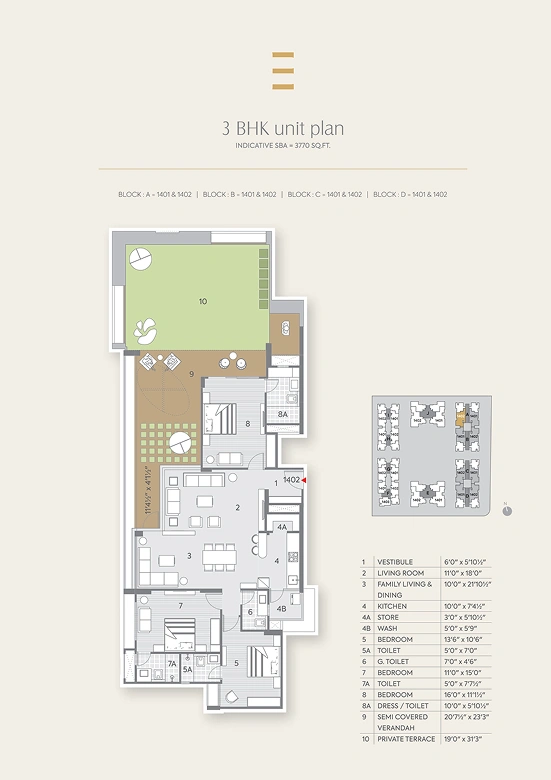
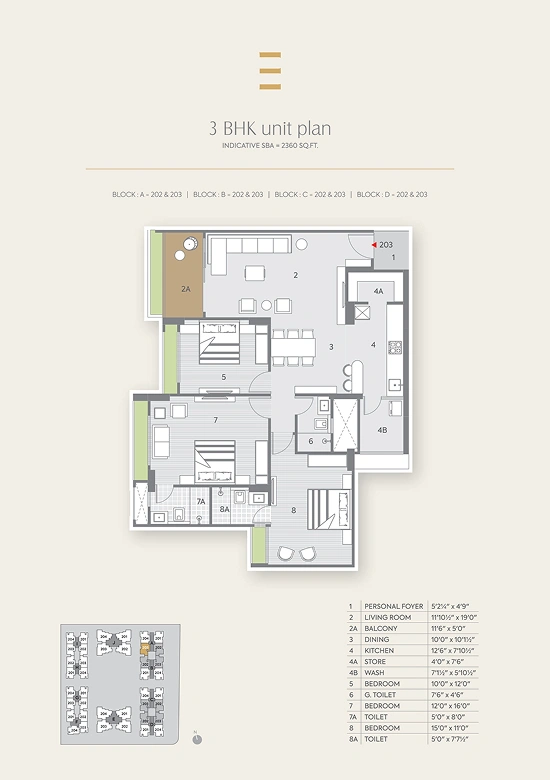
Correct floor plan to the 2nd-floor 3BHK plan (units 202/203) and redo wardrobe sizes

Changed region(s): [[0.0927, 0.2462, 0.9273, 0.9538], [0.4018, 0.1538, 0.6182, 0.2154], [0.4636, 0.0615, 0.5564, 0.1231]]

diff --git a/docs/wardrobe-buying-guide.en.md b/docs/wardrobe-buying-guide.en.md
@@ -1,48 +1,50 @@
 # Wardrobe Buying Guide — Readymade
 
 **Property:** Flat No. ____, C Block (3-Series), Shilp Residency, Gota, SG Highway, Ahmedabad
-**Plan used:** `assets/floor-plan-3bhk.webp` — Shilp's standard 3 BHK unit plan (shown as units 1401/1402, blocks A–D)
+**Plan used:** `assets/floor-plan-3bhk.webp` — Shilp 3 BHK unit plan (units 202 & 203, blocks A–D; the 3-series is 302/303, same typical plan)
 **Flat size:** 2,360 sq ft built-up · 3 BHK
 
 Wardrobes are **not** in the contractor's scope. This guide gives the sizes to buy, based on the room dimensions printed on the unit plan.
 
-> The plan is indicative and drawn for units 1401/1402. Your unit may be mirrored or slightly different. **Measure the actual wall before ordering** — see the checklist at the end.
+> The plan is indicative. **Measure the actual wall before ordering** — see the checklist at the end.
 
 ## 1. Room schedule (from the plan)
 
-| # | Room | Size (ft) |
-|---|---|---|
-| 1 | Vestibule | 6'0" × 5'10½" |
-| 2 | Living room | 11'0" × 18'0" |
-| 3 | Family living & dining | 10'0" × 21'10½" |
-| 4 | Kitchen | 10'0" × 7'4½" |
-| 4A | Store | 3'0" × 5'10½" |
-| 4B | Wash | 5'0" × 5'9" |
-| 5 | Bedroom (small) | 13'6" × 10'6" |
-| 6 | Common toilet | 7'0" × 4'6" |
-| 7 | Bedroom (medium) | 11'0" × 15'0" |
-| 8 | Bedroom (master) | 16'0" × 11'1½" |
-| 8A | Dress / toilet (master) | 10'0" × 5'10½" |
-| 9 | Semi-covered verandah | 20'7½" × 23'3" |
-| 10 | Private terrace | 19'0" × 3'7" |
+| # | Room | Size (ft) | Area (sq ft) |
+|---|---|---|---|
+| 1 | Personal foyer | 5'2¼" × 4'9" | 25 |
+| 2 | Living room | 11'10½" × 19'0" | 226 |
+| 2A | Balcony | 11'6" × 5'0" | 58 |
+| 3 | Dining | 10'0" × 10'1½" | 101 |
+| 4 | Kitchen | 12'6" × 7'10½" | 98 |
+| 4A | Store | 4'0" × 7'6" | 30 |
+| 4B | Wash | 7'11½" × 5'10½" | 47 |
+| 5 | Bedroom (small) | **10'0" × 12'0"** | 120 |
+| 6 | Common toilet | 7'6" × 4'6" | 34 |
+| 7 | **Bedroom (master)** | **12'0" × 16'0"** | 192 |
+| 7A | Toilet (master) | 5'0" × 8'0" | 40 |
+| 8 | Bedroom (large) | **15'0" × 11'0"** | 165 |
+| 8A | Toilet | 5'0" × 7'7½" | 38 |
+
+**Bedroom 7 is the master** — 12'0" × 16'0", the largest room in the flat.
 
 ## 2. What to buy
 
-Two wardrobes, as decided — master plus the medium bedroom.
+Two wardrobes, in the two largest bedrooms. Bedroom 5 stays free as a study / guest room.
 
-| Room | Clear wall available | Buy | Why |
+| Room | Wall to use | Buy | Why |
 |---|---|---|---|
-| **Bedroom 8 (master)** — 16'0" × 11'1½" | ~6 ft beside the dress/toilet door | **6 ft W × 7 ft H × 2 ft D, 3 doors** | The dress room (8A) already holds overflow; 6 ft leaves 5 ft of walkway |
-| **Bedroom 7** — 11'0" × 15'0" | ~11 ft on the long wall | **6 ft W × 7 ft H × 2 ft D, 3 doors** | Long wall opposite the bed; comfortably fits |
-| **Bedroom 5** — 13'6" × 10'6" | ~10'6" | *Optional:* 4 ft W × 6'6" H | Only if a tenant later needs a third; matched style, smaller |
+| **Bedroom 7 (master)** — 12'0" × 16'0" | 16 ft long wall | **7 ft W × 7 ft H × 2 ft D, 4-door** | Master needs the most storage; 7 ft leaves ~9 ft of clear wall. Drop to 6 ft only to save money |
+| **Bedroom 8** — 15'0" × 11'0" | 15 ft long wall | **6 ft W × 7 ft H × 2 ft D, 3-door** | Comfortably fits with ~9 ft left for the bed and walkway |
+| **Bedroom 5** — 10'0" × 12'0" | 12 ft wall | *Optional:* 4 ft W × 6'6" H | Smallest room — leave it free; add later only if a tenant needs it |
 
-**Don't buy bigger than 6 ft** in these rooms. The gain in storage is small, and you lose the walkway and the door swing.
+**Don't go above 7 ft** in the master or 6 ft in Bedroom 8. Beyond that you eat the walkway for very little extra storage.
 
 ### Internal layout to ask for
 - **1 full-width hanging rod** at 5'6"–6' height
 - **4–5 shelves** (adjustable)
 - **1 locker / 1 drawer** for documents
-- **1 loft shelf** at the top if you buy 7 ft
+- **1 loft shelf** at the top
 - Split: 60% hanging / 40% shelves is the practical mix for a family
 
 ## 3. Specification to insist on
@@ -65,13 +67,14 @@ Soft-close is **not** required — standard branded hinges are fine and cheaper.
 
 | Item | Realistic range |
 |---|---|
-| 6 ft × 7 ft × 2 ft, 3-door, branded | ₹22,000–40,000 |
-| 6 ft, mid-brand | ₹18,000–28,000 |
-| 4 ft, branded (optional third) | ₹14,000–24,000 |
-| **Two 6 ft units** | **₹44,000–80,000** |
+| **7 ft × 7 ft × 2 ft, 4-door (master)** | ₹30,000–48,000 |
+| **6 ft × 7 ft × 2 ft, 3-door (Bedroom 8)** | ₹22,000–40,000 |
+| **Both units** | **₹52,000–88,000** |
+| 4 ft unit (optional, Bedroom 5) | ₹14,000–24,000 |
+| Loft box above each unit (optional, local carpenter) | ₹4,000–8,000 each |
 | Delivery + installation | Usually included — confirm in writing |
 
-Total project cost with the contractor's ₹83,835: roughly **₹1.28–1.64 lakh**.
+Total project cost with the contractor's ₹83,835: roughly **₹1.36–1.72 lakh**.
 
 ## 5. Where to buy (Ahmedabad)
 
@@ -84,6 +87,8 @@ Total project cost with the contractor's ₹83,835: roughly **₹1.28–1.64 lak
 | **Spacewood / Zuari dealers** | Mid-market, decent hardware |
 | **Local market** — Naranpura, Paldi, Gota/Chandkheda shops | Cheapest; you must inspect ply grade and hinges yourself |
 | **Online** — Amazon / Flipkart | Only branded listings. "Engineered wood" = particle board. Avoid. |
+
+**7 ft widths are less common off the shelf** than 6 ft or 8 ft. If the 7 ft unit is a special order, either take a stock **8 ft** (the 16 ft wall takes it) or settle for **6 ft**.
 
 ## 6. Making it look built-in
 

diff --git a/docs/spec-and-quotation.en.md b/docs/spec-and-quotation.en.md
@@ -43,12 +43,12 @@ Wardrobes are **out of the contractor's scope** and will be bought readymade. Ro
 | Option | Cost for 2 | Fit | Durability | Movability |
 |---|---|---|---|---|
 | Built-in, contractor | ~₹1,42,000 | Exact wall-to-wall | High (IS 710 ply) | Fixed |
-| Readymade, branded (Godrej Interio / Durian / @home) | ₹44,000–80,000 | Standard sizes; may leave gaps | Medium | **Movable** |
+| Readymade, branded (Godrej Interio / Durian / @home) | ₹52,000–88,000 | Standard sizes; may leave gaps | Medium | **Movable** |
 | Readymade, budget online (particle board) | ₹20,000–40,000 | Standard sizes | Low — swells | Movable |
 
-**Verdict:** readymade is **materially cheaper** (roughly ₹60,000–1,00,000 saved) and **fits the plan better** — it is movable, so when you rebuild the flat you can move or resell it instead of losing it. The trade-offs are: standard sizes may not fit wall-to-wall, less storage per room, and it looks less "premium" in photos. For a semi-furnished rental that is an acceptable trade; just buy **branded**, not the cheapest particle-board units.
+**Verdict:** readymade is **materially cheaper** (roughly ₹55,000–90,000 saved) and **fits the plan better** — it is movable, so when you rebuild the flat you can move or resell it instead of losing it. The trade-offs are: standard sizes may not fit wall-to-wall, less storage per room, and it looks less "premium" in photos. For a semi-furnished rental that is an acceptable trade; just buy **branded**, not the cheapest particle-board units.
 
-**From the unit plan**, both main bedrooms take a **6 ft × 7 ft × 2 ft, 3-door** unit: Bedroom 8 (master, 16'0" × 11'1½") beside the dress/toilet door, and Bedroom 7 (11'0" × 15'0") on the long wall. Bedroom 5 (13'6" × 10'6") is left free for now.
+**From the unit plan**, Bedroom 7 is the master (12'0" × 16'0") and takes a **7 ft × 7 ft × 2 ft, 4-door** unit; Bedroom 8 (15'0" × 11'0") takes **6 ft × 7 ft × 2 ft, 3-door**. Bedroom 5 (10'0" × 12'0") is left free as a study / guest room.
 
 ## 4. What was negotiated
 
@@ -87,12 +87,13 @@ Starting from the contractor's verbal quotation dated 16 Oct 2026 (furniture onl
 
 | Item | Budget |
 |---|---|
-| 6 ft × 7 ft × 2 ft, 3-door, branded | ₹22,000–40,000 each |
-| **2 units (Bedroom 8 + Bedroom 7)** | **₹44,000–80,000** |
+| 7 ft × 7 ft × 2 ft, 4-door (master, Bedroom 7) | ₹30,000–48,000 |
+| 6 ft × 7 ft × 2 ft, 3-door (Bedroom 8) | ₹22,000–40,000 |
+| **Both units** | **₹52,000–88,000** |
 | 4 ft unit (optional, Bedroom 5) | ₹14,000–24,000 |
 | Loft box above each unit (optional, local carpenter) | ₹4,000–8,000 each |
 
-**Total project cost (contractor + 2 wardrobes), branded option:** roughly **₹1.28–1.64 lakh**, versus **₹2.26 lakh** with built-in wardrobes.
+**Total project cost (contractor + 2 wardrobes), branded option:** roughly **₹1.36–1.72 lakh**, versus **₹2.26 lakh** with built-in wardrobes.
 
 Measure the clear wall width in each bedroom before ordering — standard widths (4 ft / 6 ft / 8 ft) may leave gaps. Full checklist in the [wardrobe buying guide](wardrobe-buying-guide.en.md).
 
@@ -103,6 +104,7 @@ Granite counter (already installed), sink, hob, chimney, wardrobes, fans, lights
 ## 9. Notes
 
 - All quantities are taken from the contractor's dated measurements (kitchen 30.5, six doors).
+- The plan shows the kitchen as **12'6" × 7'10½"**. An L-run of base units plus overheads on that footprint works out to roughly **30 running feet**, which is consistent with the contractor's 30.5 units — but confirm on site.
 - Rates are subject to confirmation of **GST inclusive / exclusive**.
 - Insist on the **ISI stamp and plywood purchase invoice** before material is cut.
 - Approval of layout and material to be given **in writing before cutting begins**.
